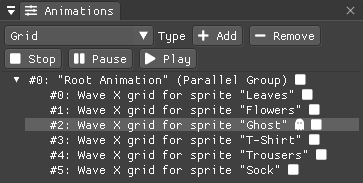
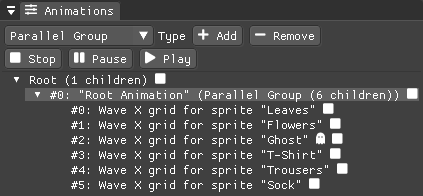
Add a documentation tip about reordering animations
- Add a new cropped screenshot to show how to drag and drop animations
- Update the animations window cropped screenshot

diff --git a/docs/documentation.html b/docs/documentation.html
@@ -753,6 +753,25 @@ Pressing <kbd>Space</kbd> will toggle the animation state between playing and pa
 <i class="fa icon-tip" title="Tip"></i>
 </td>
 <td class="content">
+<div class="imageblock">
+<div class="content">
+<img src="drag_drop_animations.png" alt="Drag and Drop Animations">
+</div>
+</div>
+<div class="paragraph">
+<p>You can change the parent and children relationships or reorder the list by drag and drop.</p>
+</div>
+</td>
+</tr>
+</table>
+</div>
+<div class="admonitionblock tip">
+<table>
+<tr>
+<td class="icon">
+<i class="fa icon-tip" title="Tip"></i>
+</td>
+<td class="content">
 The sprite icon at the end of an entry indicates that the animation is assigned to the currently selected sprite. When you select a different animation its assigned sprite will be automatically selected.
 </td>
 </tr>
